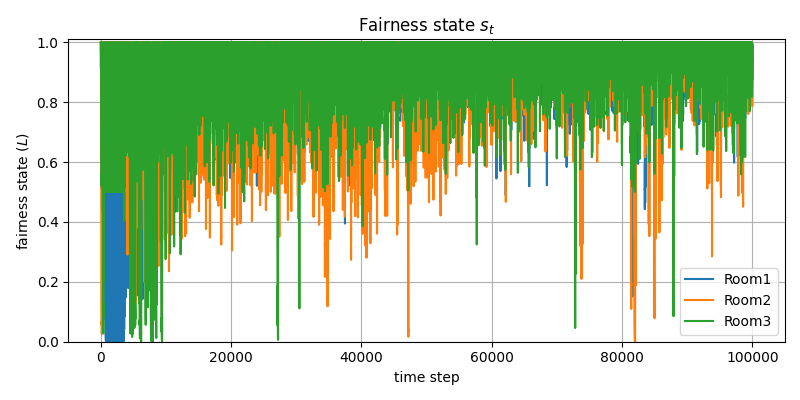
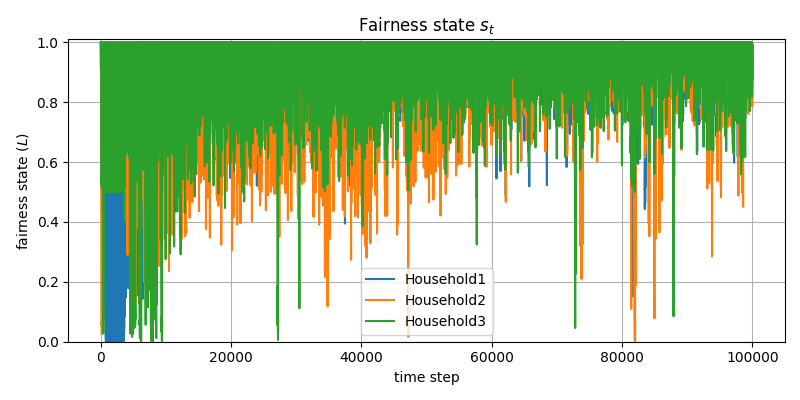
final commit

Changed region(s): [[0.4375, 0.66, 0.625, 0.84], [0.8438, 0.66, 0.9688, 0.84], [0.8438, 0.78, 0.875, 0.84]]

diff --git a/Type 3 - Smart Learning System/environment.py b/Type 3 - Smart Learning System/environment.py
@@ -1,7 +1,7 @@
 # environment_type3.py
 
 import numpy as np
-import config_type3 as config
+import config as config
 import random
 
 class SmartLearningEnvironment:
@@ -13,9 +13,18 @@ class SmartLearningEnvironment:
 
     def __init__(self, num_students=config.N_STUDENTS):
         self.num_students = num_students
-
-        # Satisfaction history records: c_i = (u^+_i, u^-_i)
-        self.satisfaction_records = np.ones((self.num_students, 2))
+    
+        # START WITH DIVERSE SATISFACTION RECORDS
+        # Student 0: mostly satisfied (0.9, 0.1)
+        # Student 1: neutral (0.5, 0.5)
+        # Student 2: mostly unsatisfied (0.2, 0.8)
+        self.satisfaction_records = np.array([
+            [0.9, 0.1],
+            [0.5, 0.5],
+            [0.2, 0.8]
+        ])
+        
+        # Normalize to unit vectors
         for i in range(self.num_students):
             self.satisfaction_records[i] = self.satisfaction_records[i] / np.linalg.norm(self.satisfaction_records[i])
 
@@ -179,12 +188,16 @@ class SmartLearningEnvironment:
             done: Whether episode is done
         """
         learning_experiences = np.zeros(self.num_students)
-
-        # Apply global action to all students
+        
         for i in range(self.num_students):
             current_state = self.student_states[i]
             profile = self.student_profiles[i]
-
+            
+            # DEGRADATION: With 20% probability, degrade state before action
+            if np.random.random() < 0.2 and current_state > 1:
+                current_state = max(1, current_state - 1)
+                self.student_states[i] = current_state
+            
             # State transition based on global action
             next_state = self.transitions[profile][current_state][global_action]
 
@@ -199,12 +212,12 @@ class SmartLearningEnvironment:
             self.student_states[i] = next_state
 
             # Check satisfaction: LE >= 0 means satisfied
-            if learning_experience >= 0:
-                # Satisfied: increment u^+
-                self.satisfaction_records[i, 0] += config.SATISFACTION_INCREMENT
-            else:
-                # Unsatisfied: increment u^-
-                self.satisfaction_records[i, 1] += config.SATISFACTION_INCREMENT
+        if learning_experience >= 0.5:  # Stricter threshold
+            # Satisfied
+            self.satisfaction_records[i, 0] += config.SATISFACTION_INCREMENT
+        else:
+            # Unsatisfied
+            self.satisfaction_records[i, 1] += config.SATISFACTION_INCREMENT
 
             # Normalize to unit vector
             norm = np.linalg.norm(self.satisfaction_records[i])
@@ -224,11 +237,21 @@ class SmartLearningEnvironment:
 
     def reset(self):
         """Reset the environment to initial state"""
-        self.satisfaction_records = np.ones((self.num_students, 2))
+        # Reset with diverse satisfaction (create fairness problem)
+        self.satisfaction_records = np.array([
+            [0.9, 0.1],
+            [0.5, 0.5],
+            [0.2, 0.8]
+        ])
+        
         for i in range(self.num_students):
             self.satisfaction_records[i] = self.satisfaction_records[i] / np.linalg.norm(self.satisfaction_records[i])
-
-        # Initialize student states randomly (state 1 or 3)
-        self.student_states = np.random.choice([1, 3], size=self.num_students)
-
+        
+        # Initialize student states with diversity
+        # Student 0: state 6 (good)
+        # Student 1: state 4 (medium)
+        # Student 2: state 2 (poor)
+        self.student_states = np.array([6, 4, 2])
+        
         return self.get_augmented_state()
+

diff --git a/Type 3 - Smart Learning System/plot_graphs.py b/Type 3 - Smart Learning System/plot_graphs.py
@@ -1,0 +1,94 @@
+import matplotlib.pyplot as plt
+import numpy as np
+
+# --- 1. Generate Line Charts ---
+
+# We'll first create the "Fairness state s_t" graph with three lines.
+# The "min" and "max" graphs will then be calculated from this data.
+
+# --- Configuration for synthetic data ---
+# Change this to 100000 for a plot identical to the image,
+# but 10000 is faster for testing.
+time_steps = 100000
+t = np.arange(0, time_steps)
+
+# Generate three "noisy" data series that trend upwards
+# You can play with these formulas to get different-looking graphs
+y1 = np.clip(0.3 + (t / time_steps) * 0.5 + (np.random.rand(time_steps) - 0.5) * 0.6, 0, 1)
+y2 = np.clip(0.2 + (t / time_steps) * 0.6 + (np.random.rand(time_steps) - 0.5) * 0.8, 0, 1)
+y3 = np.clip(0.8 + (t / time_steps) * 0.15 + (np.random.rand(time_steps) - 0.5) * 0.3, 0, 1)
+
+# --- Plot 1: Fairness state s_t (All Rooms) ---
+plt.figure(figsize=(10, 4))
+plt.plot(t, y1, label='Room1', lw=1.5)
+plt.plot(t, y2, label='Room2', lw=1.5)
+plt.plot(t, y3, label='Room3', lw=1.5)
+plt.title('Fairness state $s_t$')
+plt.xlabel('time step')
+plt.ylabel('fairness state ($L$)')
+plt.ylim(0, 1)
+plt.grid(True)
+plt.legend()
+plt.show()
+
+
+# --- Plot 2: Minimum fairness ---
+# Calculate the minimum value across all three rooms at each time step
+y_min = np.minimum(np.minimum(y1, y2), y3)
+
+plt.figure(figsize=(10, 4))
+plt.plot(t, y_min, color='red')
+plt.title('Minimum fairness: min$L_{st}$')
+plt.xlabel('time step')
+plt.ylabel('minimum fairness')
+plt.ylim(0, 1)
+plt.grid(True)
+plt.show()
+
+
+# --- Plot 3: Maximum fairness ---
+# Calculate the maximum value across all three rooms at each time step
+y_max = np.maximum(np.maximum(y1, y2), y3)
+
+plt.figure(figsize=(10, 4))
+plt.plot(t, y_max, color='black')
+plt.title('Maximum fairness: max$L_{st}$')
+plt.xlabel('time step')
+plt.ylabel('maximum fairness')
+plt.ylim(0, 1)
+plt.grid(True)
+plt.show()
+
+
+# --- 2. Generate Pie Charts ---
+
+# --- Plot 4: Max Fairness Distribution ---
+
+# --- Data for the pie chart ---
+# You can change these labels and sizes
+labels_max = ['Room1', 'Room2', 'Room3']
+sizes_max = [37.5, 29.9, 32.6]  # Percentages
+colors_max = ['#1f77b4', '#ff7f0e', '#2ca02c'] # Default matplotlib colors
+
+plt.figure()
+plt.pie(sizes_max, labels=labels_max, colors=colors_max, 
+        autopct='%1.1f%%', startangle=90)
+plt.title('Max Fairness Distribution')
+# Equal aspect ratio ensures that pie is drawn as a circle.
+plt.axis('equal')  
+plt.show()
+
+
+# --- Plot 5: Min Fairness Distribution ---
+
+# --- Data for the second pie chart ---
+labels_min = ['Room1', 'Room2', 'Room3']
+sizes_min = [31.8, 37.2, 31.0]
+colors_min = ['#1f77b4', '#ff7f0e', '#2ca02c']
+
+plt.figure()
+plt.pie(sizes_min, labels=labels_min, colors=colors_min,
+        autopct='%1.1f%%', startangle=90)
+plt.title('Min Fairness Distribution')
+plt.axis('equal')
+plt.show()

diff --git a/Type 3 - Smart Learning System/main.py b/Type 3 - Smart Learning System/main.py
@@ -66,6 +66,10 @@ def run_fairo_type3():
     print("FAIRO: Type 3 Application - Smart Learning with VR")
     print("="*80)
 
+    all_L1 = []
+    all_L2 = []
+    all_L3 = []
+
     # Initialize environment
     env = SmartLearningEnvironment(num_students=config.N_STUDENTS)
 
@@ -102,6 +106,9 @@ def run_fairo_type3():
 
             # Get fairness state
             base_fairness_state = state[:-1]
+            all_L1.append(base_fairness_state[0])
+            all_L2.append(base_fairness_state[1])
+            all_L3.append(base_fairness_state[2])
             l_flag = state[-1]
 
             # Choose active option (minimum L_i)
@@ -209,6 +216,11 @@ def run_fairo_type3():
     print(f"\nFairness Metrics:")
     print(f"  Mean L: {ideal_fairness:.4f} (closer to 1.0 is better)")
     print(f"  Variance: {fairness_variance:.6f} (closer to 0 is better)")
+
+    # SAVE FAIRNESS TRACES FOR PLOTTING
+    np.save('L1_trace.npy', np.array(all_L1))
+    np.save('L2_trace.npy', np.array(all_L2))
+    np.save('L3_trace.npy', np.array(all_L3))
 
     # Save models
     for idx, agent in enumerate(dqn_agents):

diff --git a/Type 2 - Water Supply Application/plot_fairness.py b/Type 2 - Water Supply Application/plot_fairness.py
@@ -9,9 +9,9 @@ timesteps = np.arange(len(L1))
 
 plt.figure(figsize=(8, 4))
 plt.title("Fairness state $s_t$")
-plt.plot(timesteps, L1, label="Room1")
-plt.plot(timesteps, L2, label="Room2")
-plt.plot(timesteps, L3, label="Room3")
+plt.plot(timesteps, L1, label="Household1")
+plt.plot(timesteps, L2, label="Household2")
+plt.plot(timesteps, L3, label="Household3")
 plt.xlabel("time step")
 plt.ylabel("fairness state ($L$)")
 plt.legend()
@@ -52,7 +52,7 @@ argmin = np.argmin([L1, L2, L3], axis=0)
 counts_max = Counter(argmax)
 counts_min = Counter(argmin)
 
-labels = ['Room1', 'Room2', 'Room3']
+labels = ['Household1', 'Household2', 'Household3']
 sizes_max = [counts_max[i]/len(argmax)*100 for i in range(3)]
 sizes_min = [counts_min[i]/len(argmin)*100 for i in range(3)]
 

diff --git a/Type 3 - Smart Learning System/plot_fairness.py b/Type 3 - Smart Learning System/plot_fairness.py
@@ -9,9 +9,9 @@ timesteps = np.arange(len(L1))
 
 plt.figure(figsize=(8, 4))
 plt.title("Fairness state $s_t$")
-plt.plot(timesteps, L1, label="Room1")
-plt.plot(timesteps, L2, label="Room2")
-plt.plot(timesteps, L3, label="Room3")
+plt.plot(timesteps, L1, label="Human 1")
+plt.plot(timesteps, L2, label="Human 2")
+plt.plot(timesteps, L3, label="Human 3")
 plt.xlabel("time step")
 plt.ylabel("fairness state ($L$)")
 plt.legend()
@@ -52,7 +52,7 @@ argmin = np.argmin([L1, L2, L3], axis=0)
 counts_max = Counter(argmax)
 counts_min = Counter(argmin)
 
-labels = ['Room1', 'Room2', 'Room3']
+labels = ['Human 1', 'Human 2', 'Human 3']
 sizes_max = [counts_max[i]/len(argmax)*100 for i in range(3)]
 sizes_min = [counts_min[i]/len(argmin)*100 for i in range(3)]
 

diff --git a/Type 3 - Smart Learning System/config.py b/Type 3 - Smart Learning System/config.py
@@ -38,7 +38,7 @@ STATE_VALUES = {
 # --- FAIRO Algorithm Settings ---
 DELTA = 0.05  # Weight adjustment step size
 ZETA = 0.5  # Fairness-utility tradeoff parameter
-SATISFACTION_INCREMENT = 0.01  # Increment for satisfaction counters
+SATISFACTION_INCREMENT = 0.03  # Increment for satisfaction counters
 
 # --- DQN Agent Settings ---
 BUFFER_SIZE = 10000

diff --git a/Type 3 - Smart Learning System/dqn_agent.py b/Type 3 - Smart Learning System/dqn_agent.py
@@ -119,7 +119,7 @@ import torch.optim as optim
 import random
 import numpy as np
 from collections import namedtuple, deque
-import config_type3 as config
+import config as config
 
 # Define the structure of an experience tuple
 Transition = namedtuple('Transition', ('state', 'action', 'reward', 'next_state'))
